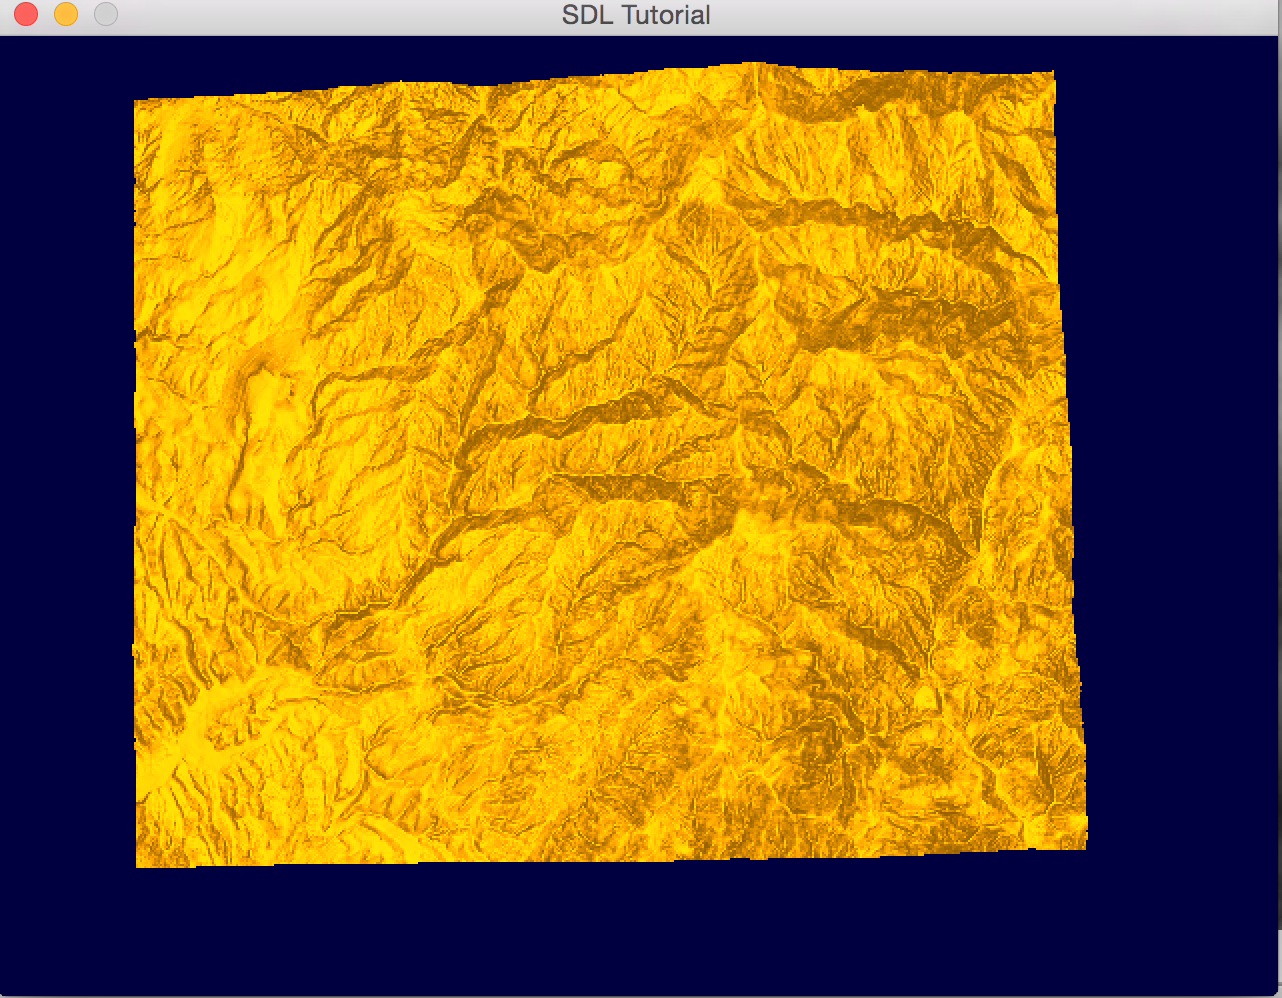
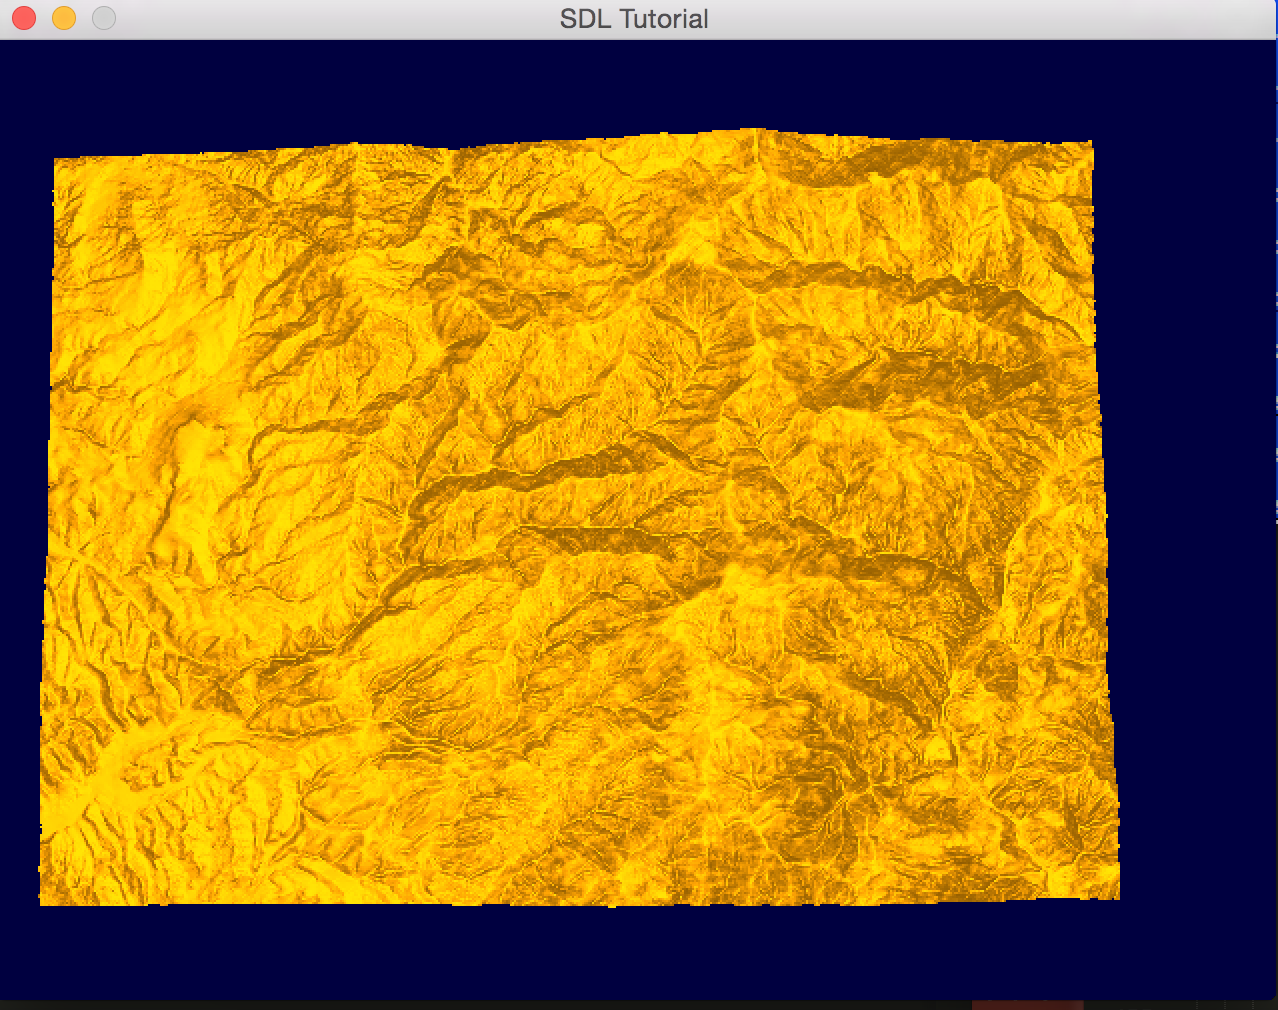
Changed screenshot due to bug fix.

diff --git a/code/src/gishandler.cpp b/code/src/gishandler.cpp
@@ -150,7 +150,7 @@ bool getRawValuesFromFile(string fname,vector<vector<float>>& vecs,float& min, f
    pafScanline = (float *) CPLMalloc(sizeof(float)*width*height);
 
    // I don't like dynamic float array (that is a lie) just a preference
-   vector<vector<float>> out = vector<vector<float>>(height,vector<float> (width,0));
+   vector<vector<float>> out = vector<vector<float>>(width,vector<float> (height,0));
 
    auto err = poBand->RasterIO(GF_Read,0,0,width,height,pafScanline,width,height,GDT_Float32,0,0);
    cout << "Loaded data with status " << err << endl;
@@ -183,9 +183,9 @@ bool getRawValuesFromFile(string fname,vector<vector<float>>& vecs,float& min, f
     for(int j = 0; j < width; j++)
     {
       if(pafScanline[(height-1-i)*width+j] > 0)
-      out[i][j] = pafScanline[(height-1-i)*width+j];
+      out[width-1-j][i] = pafScanline[(height-1-i)*width+j];
       else
-      out[i][j] = 0;
+      out[width-1-j][i] = 0;
     }
    }
 
